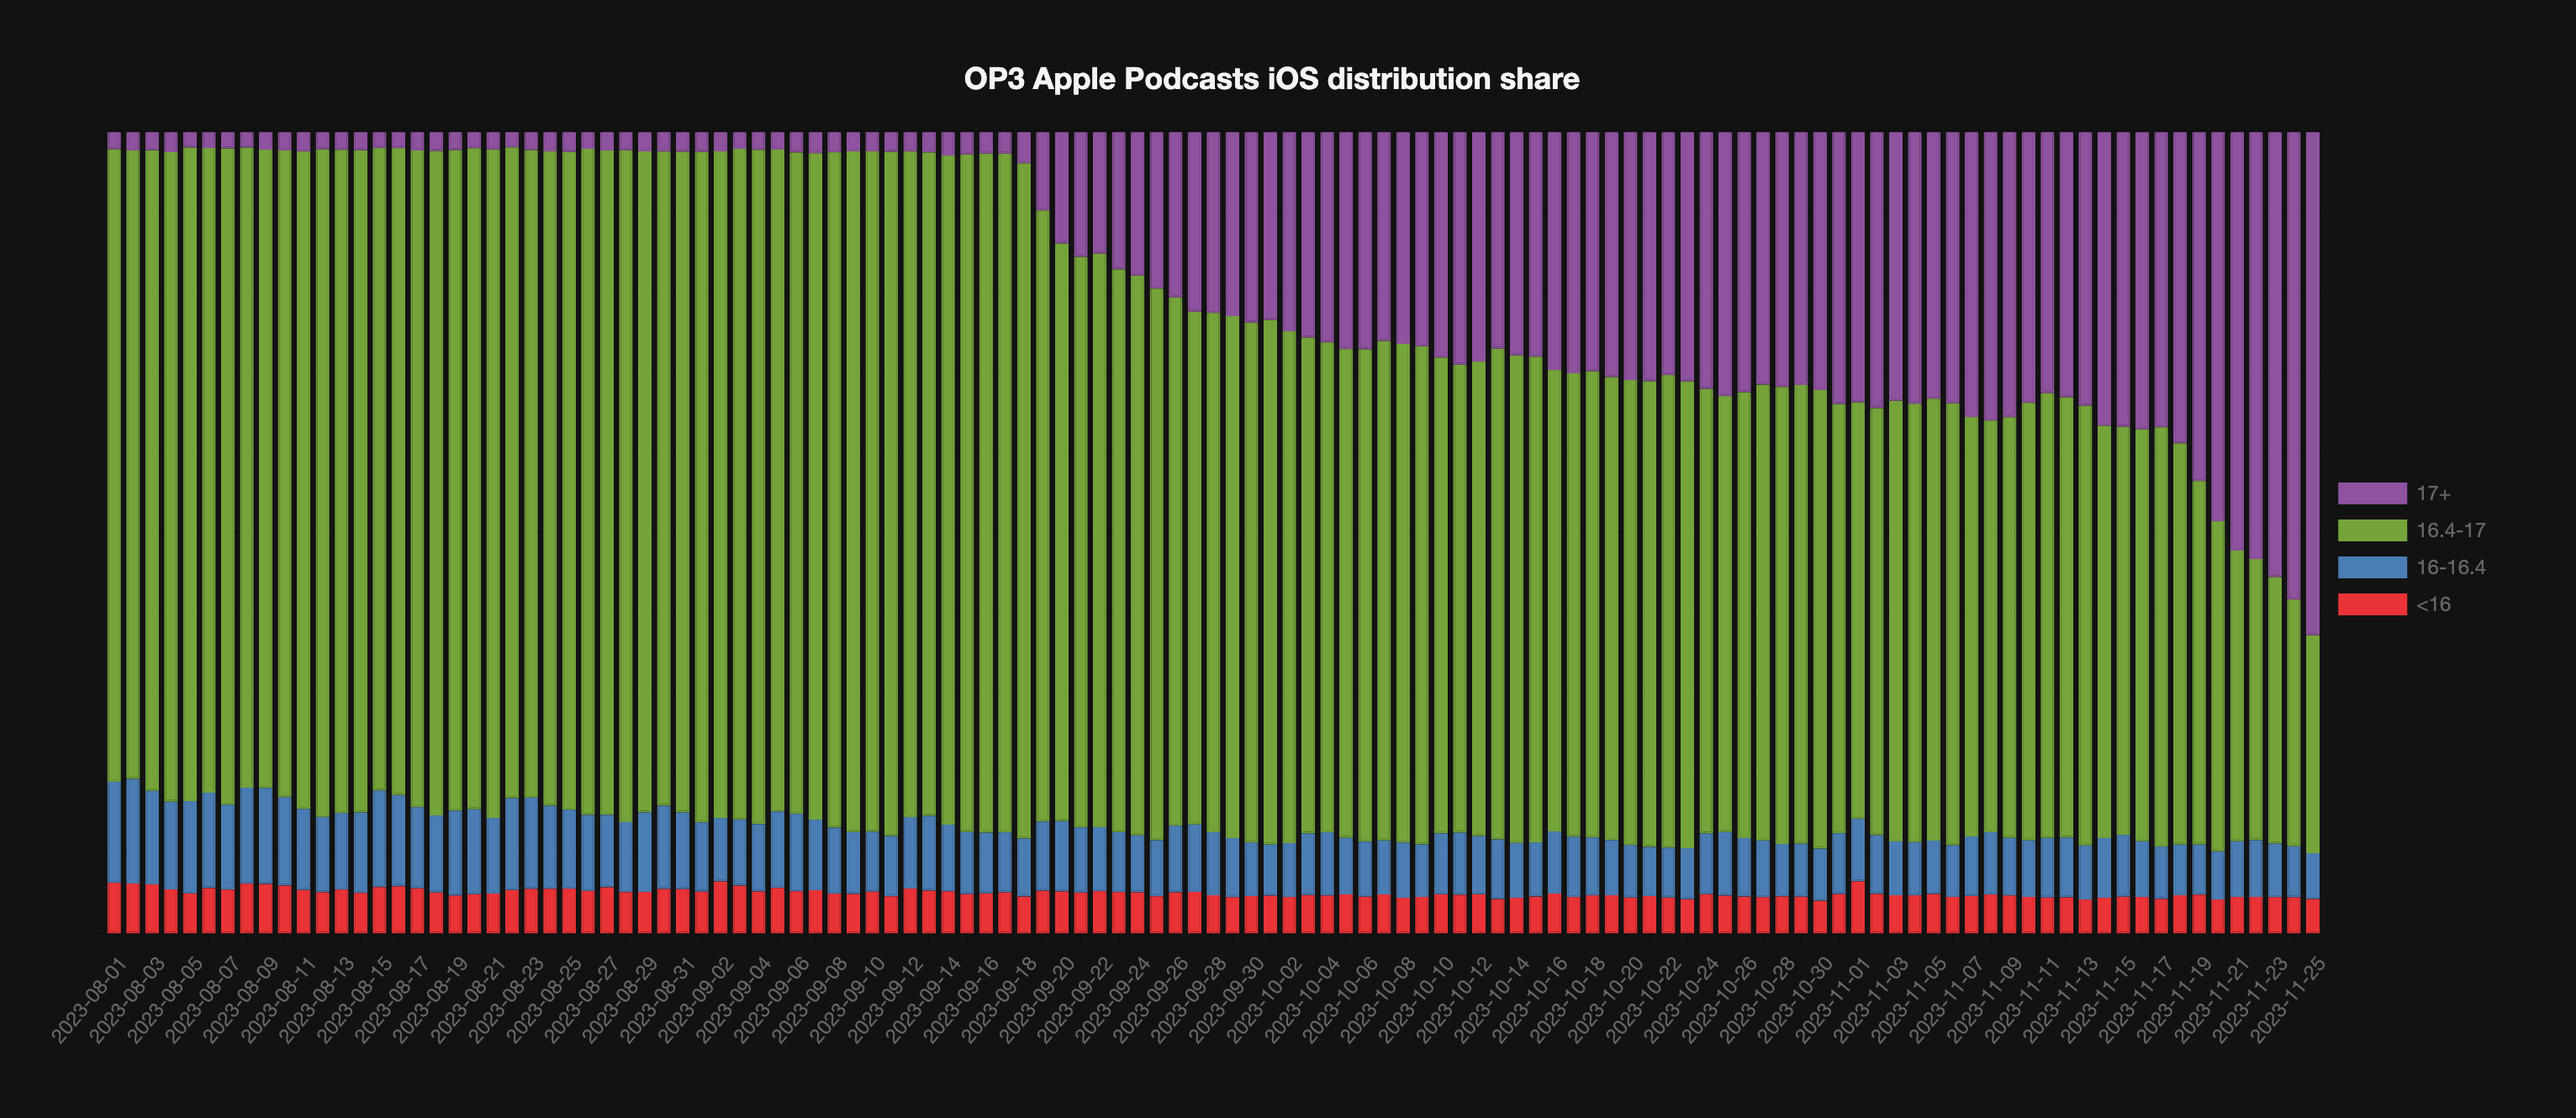
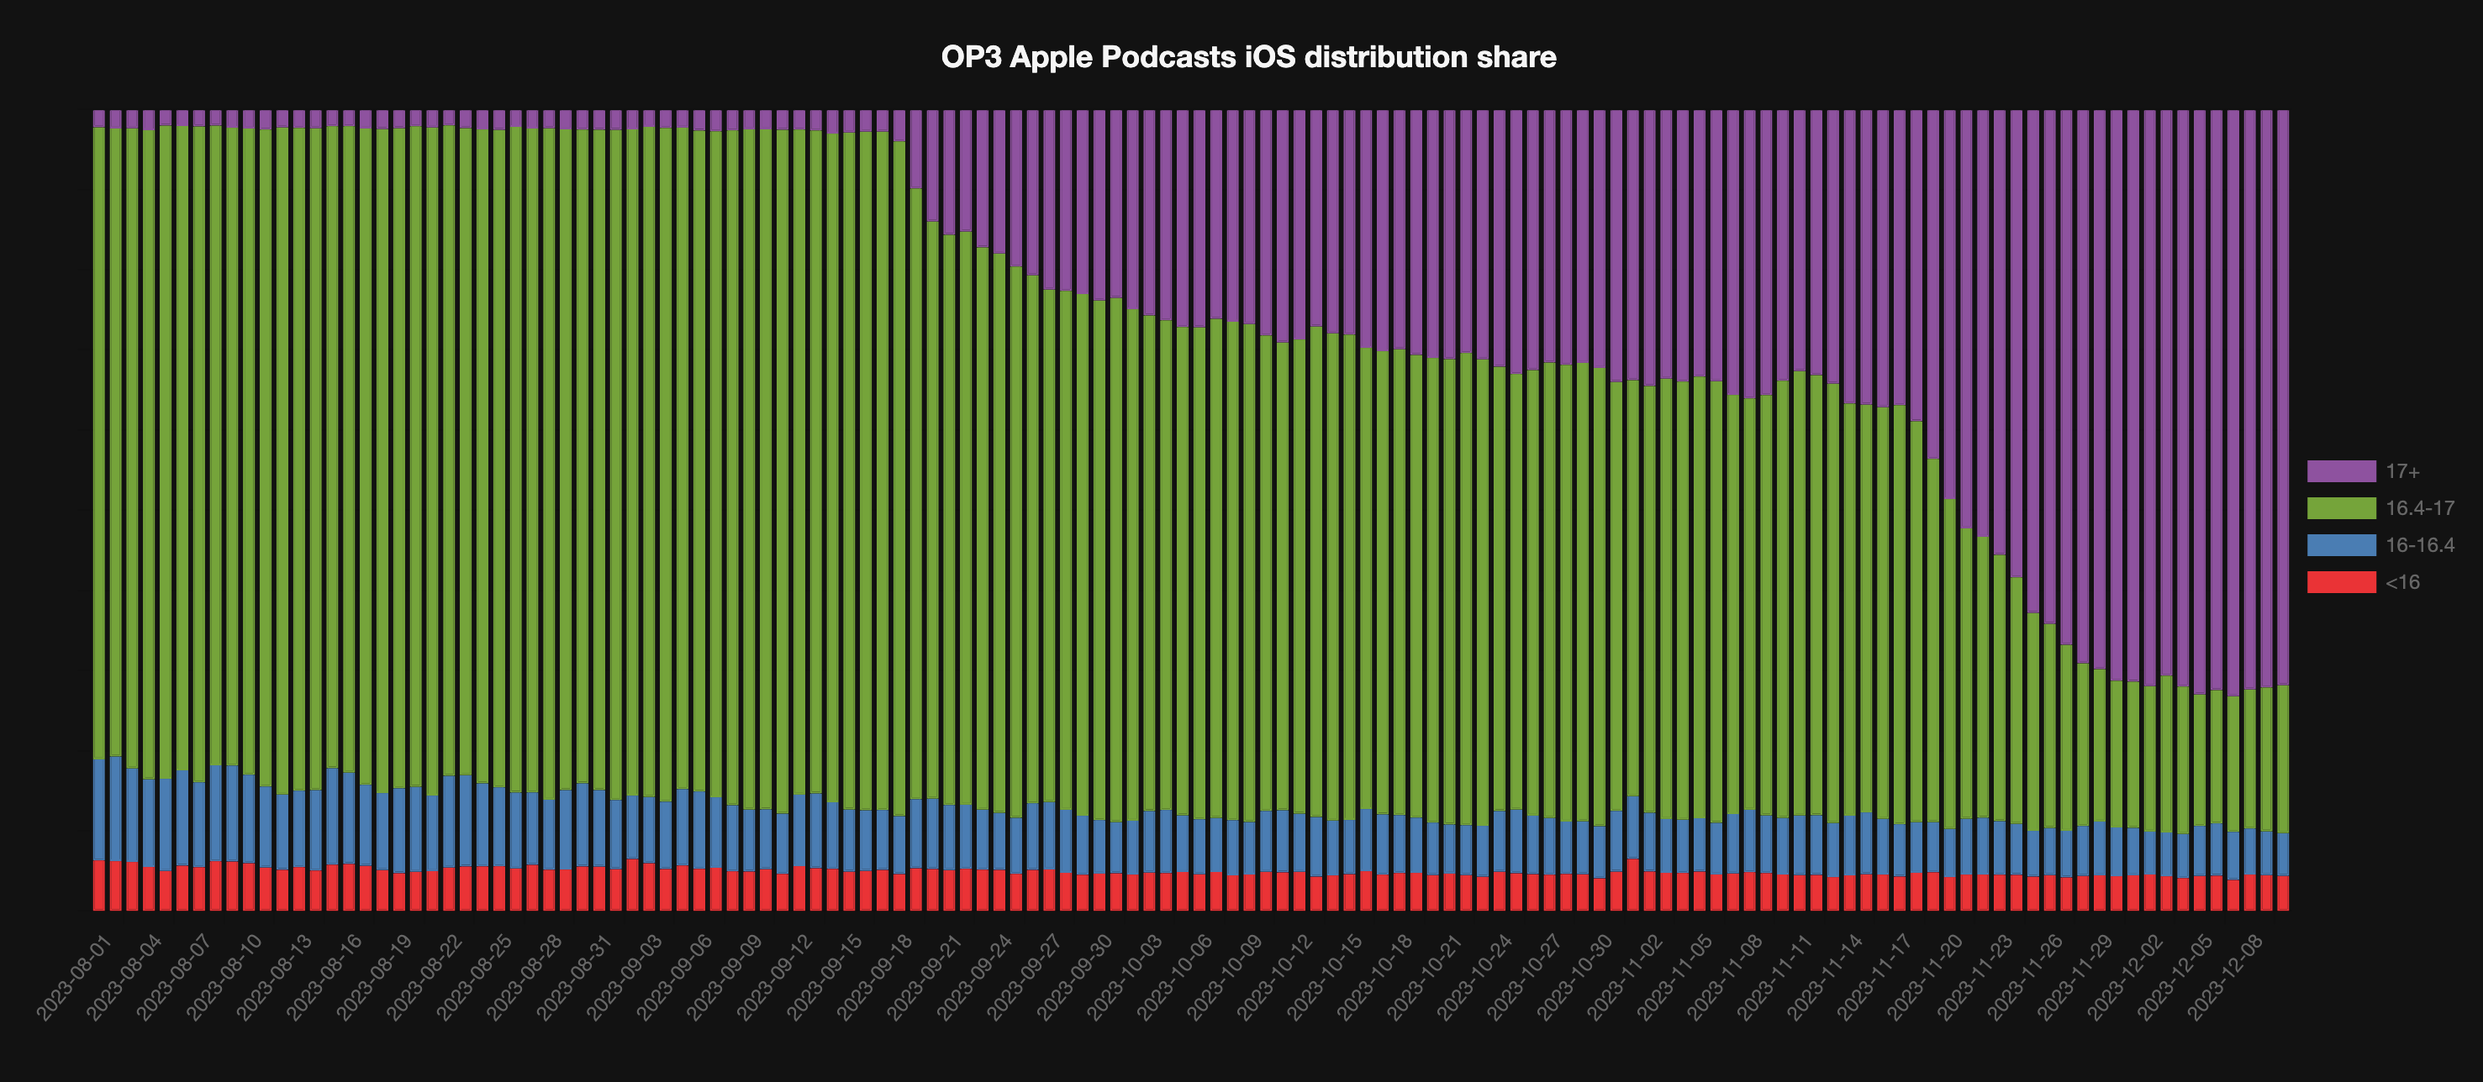
Update ios17 post.

diff --git a/content/posts/tracking-apple-podcasts-ios17-changes.md b/content/posts/tracking-apple-podcasts-ios17-changes.md
@@ -5,9 +5,11 @@ slug: "tracking-apple-podcasts-ios17-changes"
 images:
 - tracking-apple-podcasts-ios17-changes.png
 date: 2023-11-24T13:17:00-06:00
-lastmod: 2023-12-01T09:24:00-06:00
+lastmod: 2023-12-11T10:47:00-06:00
 draft: false
 ---
+
+_(Updated with data through 2023-12-10)_
 
 Apple made a change to [auto-downloading in Apple Podcasts in iOS 17](https://podcasters.apple.com/5349-ios-17-automatic-download-improvements), are we seeing a difference in downloads?
 
@@ -146,10 +148,20 @@ Date	17+	16.4-17	16-16.4	<16
 2023-11-27	66.800024431957	23.196616173955533	5.814805765941852	4.188553628145614
 2023-11-28	69.10484303243658	20.29205962884089	6.23379257392035	4.3693047648021786
 2023-11-29	69.83402060331959	19.00560161988797	6.705685865886283	4.454691910906162
-2023-11-30	67.06766917293233	20.601503759398497	7.1633629528366365	5.167464114832536
+2023-11-30	71.28055718373962	18.29638313277937	6.089025273247596	4.334034410233424
+2023-12-01	71.39013452914799	18.247320817815613	5.9056015809075015	4.4569430721289045
+2023-12-02	71.95640429380123	18.138256641533363	5.350809198318183	4.554529866347216
+2023-12-03	70.6482791846075	19.556773358224685	5.46806780885851	4.326879648309295
+2023-12-04	71.99974912979398	18.40446548966728	5.494057511994732	4.101727868544012
+2023-12-05	72.98739088263821	16.400945683802135	6.245453443258972	4.366209990300679
+2023-12-06	72.44684974803948	16.62492172824045	6.5241375197543015	4.404091003965769
+2023-12-07	73.21266810675215	16.920423663856177	5.994355794021323	3.8725524353703578
+2023-12-08	72.36462990561351	17.348898824308662	5.747640337804272	4.538830932273555
+2023-12-09	72.11942605922992	17.95738924585729	5.461616503212715	4.461568191700082
+2023-12-10	71.83648315529992	18.46460852212701	5.326329381382791	4.37257894119028
 {{< /graph >}}
 
-We can see that iOS 17 is rolling out quite quickly, with a few beta testers in August, then an initial rise after September 18, and finally a large increase starting November 19, so much so that _over two-thirds AP listeners have iOS 17+_.
+We can see that iOS 17 is rolling out quite quickly, with a few beta testers in August, then an initial rise after September 18, a large increase starting November 19, plateauing in December to a level where  _over 70% of AP listeners have iOS 17+_.
 
 We show pre-post 16.4 as well, since that was when Apple Podcasts made another change, [no longer using the AppleCoreMedia user-agents for some requests](/apple-podcasts-vs-applecoremedia).
 
@@ -286,7 +298,17 @@ Date	Apple Podcasts	AppleCoreMedia	Spotify	NRC	Other
 2023-11-27	34.26921511430703	4.556169866359134	32.27986568075436	0.47119146145670804	28.42355787712276
 2023-11-28	34.99147925687945	4.342226567956418	36.36401732085487	0.5078921637100154	23.794384690599244
 2023-11-29	36.86748969742899	3.6965889164015753	35.47403575865989	0.41122165140740613	23.55066397610215
-2023-11-30	35.154071215139446	3.630166832669323	35.46875	0.5008092629482072	25.24620268924303
+2023-11-30	35.15399579799238	3.6302233289238193	35.468679480196094	0.5008170570383628	25.24628433584935
+2023-12-01	35.647352036760815	4.093789486684972	30.31880698354187	0.3898394722757948	29.550212020736545
+2023-12-02	29.795446486614267	4.001314934105549	26.106982447845873	9.712413568938006	30.383842562496305
+2023-12-03	32.22076373975519	4.969456903389194	29.21237308496871	3.164700807525151	30.43270546436175
+2023-12-04	32.48978083922251	4.364743597382941	32.69624959778813	0.8410697048062828	29.608156260800133
+2023-12-05	32.98780188245766	3.7400624788678662	35.01388579833949	2.8303331724642162	25.427916667870775
+2023-12-06	35.58671929963999	3.702558939804716	33.64477452893783	1.4933281524590019	25.57261907915846
+2023-12-07	36.01427067957824	3.7496938687706436	33.953759291496496	0.8240721741605386	25.458203985994082
+2023-12-08	34.42301976039391	4.249324734740298	31.178515579564987	0.645540664538558	29.503599260762243
+2023-12-09	30.54410421382898	4.128837523332937	27.605147146431552	9.043647484014457	28.67826363239207
+2023-12-10	29.92451254935383	4.299653870906024	27.767728245177675	7.707894874158592	30.300210460403875
 {{< /graph >}}
 
 {{< graph agent-share-ten-daily-all "OP3 podcast app share (ten-daily, all shows)" "limit:100,height:600px,type:stacked-bar">}}
@@ -302,7 +324,8 @@ Date	Apple Podcasts	AppleCoreMedia	Spotify	NRC	Other
 2023-10-21	37.19104783829684	3.98950834938002	28.127752313632943	3.6649611803962037	27.026730318293996
 2023-11-01	39.37821474420101	3.88807131636135	30.257457858643132	1.3797208487952586	25.09653523199925
 2023-11-11	37.98709484359243	3.8294584876674116	33.735102638052425	0.8509875024740577	23.597356528213684
-2023-11-21	35.29686956829149	4.077957353539043	32.411781688771576	2.777911984963558	25.435479404434336
+2023-11-21	35.29686264054337	4.077963360402308	32.411770511266305	2.7779160768497664	25.43548741093826
+2023-12-01	33.18142673583542	4.093695961910561	31.096387838695833	3.326243673129639	28.30224579042855
 {{< /graph >}}
 
 {{< graph agent-share-monthly-all "OP3 podcast app share (monthly, all shows)" "limit:100,height:600px,type:stacked-bar">}}
@@ -310,13 +333,14 @@ Date	Apple Podcasts	AppleCoreMedia	Spotify	NRC	Other
 2023-08	34.02592258903234	3.9453226196761233	39.93320680326053	0.7659237755185222	21.32962421251248
 2023-09	38.93836653912325	4.605528150383481	30.950340895295014	0.9239648617073621	24.58179955349089
 2023-10	37.906983260388145	4.290463174858107	28.909527018257737	2.797851514044762	26.09517503245125
-2023-11	37.51145435977125	3.932843562210174	32.178794831025144	1.6762480164952829	24.700659230498147
+2023-11	37.511453109427514	3.932845538226304	32.17879090134238	1.6762488587085738	24.70066159229523
+2023-12	33.18142673583542	4.093695961910561	31.096387838695833	3.326243673129639	28.30224579042855
 {{< /graph >}}
 
 Some notes:
  - OP3 added a few large shows in August, so Spotify will be over-represented in that month as Spotify redownloads episodes whenever the episode enclosure url changes.  You can see exactly when in the daily graph.
  - OP3 measures some [NRC](https://www.nrc.nl/index/podcast/) shows, and NRC has their own apps, so their app's share temporarily squeezes every other app's share when they release popular episodes.  Included in the app list above so you can see the effect.
- - Not much to conclude from these numbers yet, very little effect visible from OP3 in aggregate.
+ - Still too early to tell looking at all shows in aggregate, although Apple Podcasts does appear to have consistently lower share once iOS17 hit the majority of listeners.  Something to keep an eye on in the coming weeks and months.
 
 ---
 ## Narrowing it down
@@ -458,7 +482,17 @@ Date	Apple Podcasts	AppleCoreMedia	Spotify	NRC	Other
 2023-11-27	57.46048065801311	4.356766482457268	7.935997943709035	0	30.24675491582059
 2023-11-28	59.874954027215885	4.788525193085693	9.106289076866494	0	26.230231702831926
 2023-11-29	55.93961933931306	3.3854736381535773	7.481951432946839	0	33.192955589586525
-2023-11-30	56.580193145237644	3.6482989332828377	7.492267878558353	0	32.27924004292117
+2023-11-30	56.57662206513506	3.648068669527897	7.491795001262308	0	32.28351426407473
+2023-12-01	63.784011811854036	4.134148913731281	7.551149546509175	0	24.530689727905504
+2023-12-02	60.12018313620755	4.731018695154521	9.681419305608546	0	25.467378863029378
+2023-12-03	58.71199371704252	6.092224840121172	8.964433972848648	0	26.23134746998766
+2023-12-04	65.16160271153613	3.5588911754024934	7.123834886817576	0	24.155671226243797
+2023-12-05	60.27075123935427	3.349434346002288	7.703063429515698	0	28.676750985127747
+2023-12-06	61.392696693929274	4.0317935721691045	6.9807625849556505	0	27.594747148945974
+2023-12-07	63.89981536485511	4.27069117765112	8.075780685558321	0	23.753712771935458
+2023-12-08	61.68610659973424	3.6837442787538754	7.6701609331167875	0	26.9599881883951
+2023-12-09	61.16783979379399	4.937047685139288	8.77366907901259	0	25.12144344205413
+2023-12-10	61.70606819915023	5.0441224534263	10.273450266913606	0	22.97635908050986
 {{< /graph >}}
 
 {{< graph agent-share-ten-daily-subset "OP3 podcast app share (ten-daily, 28 Apple-heavy shows)" "limit:100,height:600px,type:stacked-bar">}}
@@ -474,7 +508,8 @@ Date	Apple Podcasts	AppleCoreMedia	Spotify	NRC	Other
 2023-10-21	67.15394005427599	3.660603492630368	6.855623820909375	0	22.329832632184257
 2023-11-01	66.738499504701	3.512857498711064	6.748231695660485	0	23.000411300927453
 2023-11-11	67.78039185924436	3.7832504838158845	7.1041880114850935	0	21.33216964545466
-2023-11-21	60.2650069426516	4.2688585443457505	7.625752702052094	0	27.84038181095055
+2023-11-21	60.26458644413123	4.26882875842532	7.625699493434181	0	27.840885304009266
+2023-12-01	61.993510081162896	4.228563424560529	8.063373979627569	0	25.714552514649007
 {{< /graph >}}
 
 {{< graph agent-share-monthly-subset "OP3 podcast app share (monthly, 28 Apple-heavy shows)" "limit:100,height:600px,type:stacked-bar">}}
@@ -482,16 +517,20 @@ Date	Apple Podcasts	AppleCoreMedia	Spotify	NRC	Other
 2023-08	67.74462564862861	4.651902643933778	6.085680751173709	0	21.517790956263898
 2023-09	69.7100024576063	4.464435850008408	6.055735923736597	0	19.769825768648705
 2023-10	66.77871819667783	3.908225004492901	7.203361545900335	0	22.109695252928944
-2023-11	65.12895046597673	3.83159866514224	7.132249640339368	0	23.907201228541656
+2023-11	65.12881308022841	3.8315905826068066	7.132234595271897	0	23.90736174189289
+2023-12	61.993510081162896	4.228563424560529	8.063373979627569	0	25.714552514649007
 {{< /graph >}}
 
-Even after isolating to shows likely to have the most dramatic effect, we don't see much of a change yet.
+After isolating to shows likely to have the most dramatic effect, we see a drop in Apple Podcasts share of downloads from the high sixties to the low sixties, so around 7-8%.
 
 The share of Apple Podcasts downloads for these 28 Apple-heavy shows went:
  - from 67.74% in August to 65.13% in November (-2.61%)
  - from 69.71% in September to 65.13% in November (-4.58%)
+ - from 67.74% in August to 61.99% in December MTD (-5.75%)
+ - from 69.71% in September to 61.99% in December MTD (-7.72%)
 
-Once again, it's very difficult to keep everything else constant when trying to identify the effect from the iOS 17 change alone.  A slow change in listener app preference for these shows would also look like this.
+Once again, it's very difficult to keep everything else constant when trying to identify the effect from the iOS 17 change alone.
+December is traditionally a slumping month for publishing and listening, we'll be able to say for sure whether these changes are durable after a full January.
 
 We'll keep an eye on it, and update these numbers periodically.
 
@@ -499,6 +538,8 @@ We'll keep an eye on it, and update these numbers periodically.
 Data collected and visualized by [John Spurlock](https://twitter.com/johnspurlock)
 
 ---
+
+*Updated 2023-12-11, with ten new days of data.*
 
 *Updated 2023-11-27 thru 2023-12-01, with new days of data.*
 

diff --git a/content/_index.md b/content/_index.md
@@ -1,12 +1,14 @@
 ---
 title: "livewire.io: Podcasting ▷ Forward"
 date: 2023-01-15T18:32:00-06:00
-lastmod: 2023-12-03T10:29:00-06:00
+lastmod: 2023-12-11T10:47:00-06:00
 ---
 
 {{< p index-subhead "Podcasting ▷ Forward" >}}
 
 ---
+
+Deep dive: [Impact of Apple Podcasts auto-downloading changes in iOS 17](/tracking-apple-podcasts-ios17-changes)
 
 New data: [Top Podcast CDNs by Episode Share (Nov 2023)](/podcast-cdns-by-episode-share)
 
@@ -15,8 +17,6 @@ New data: [Top Podcast Tracking Services by Episode Share (Nov 2023)](/podcast-t
 New data: [Top Podcast Hosting Companies by Episode Share (Nov 2023)](/podcast-hosts-by-episode-share)
 
 New graphs: [Buzzsprout Statistics, visualized](/buzzsprout-stats-visualized)
-
-Deep dive: [Impact of Apple Podcasts auto-downloading changes in iOS 17](/tracking-apple-podcasts-ios17-changes)
 
 New graphs: [Libsyn Statistics, visualized](/libsyn-stats-visualized)
 
